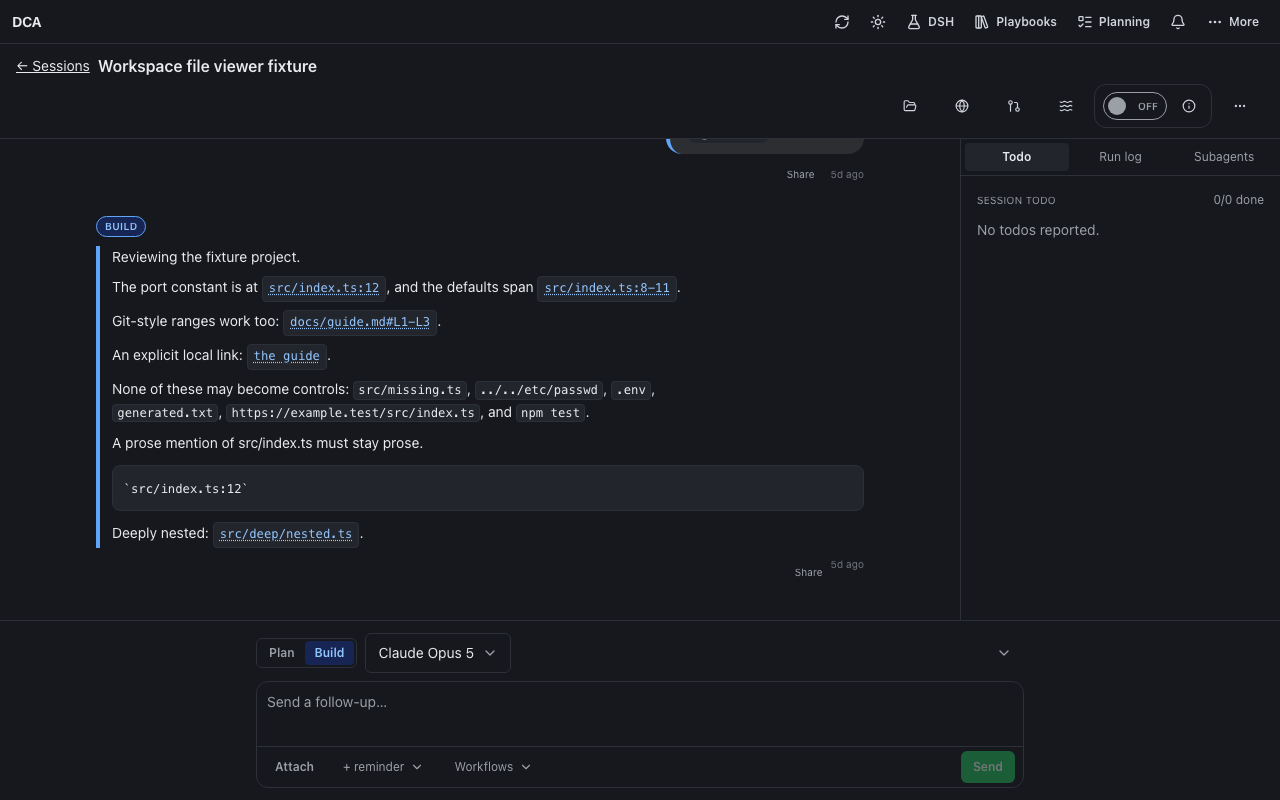
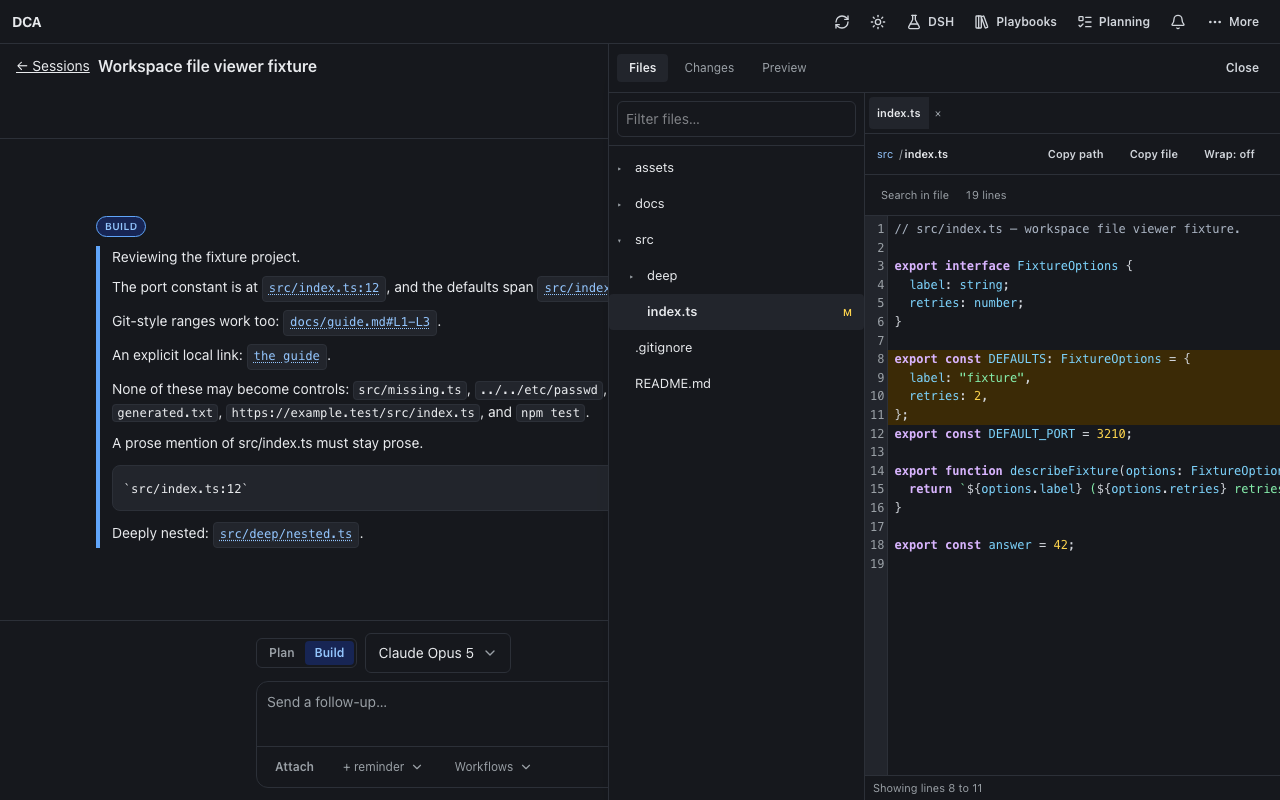
content: complete practical DCA workflow revision
Rewrite the phone, sub-agent, notification, audit, and playbook sections around the approved customization thesis. Replace the notification table with an auditable delivery-flow SVG and add the DeepSeek Harness trajectory inspiration note.

Recapture six privacy-safe UI states from the DCA production bundle through its real BFF and mock OpenCode/forge servers: two mobile views, the notification popover, highlighted sticky review, dark run log, and dark related PR. Remove superseded screenshots and keep generated docs out of the commit.

diff --git a/src/content/blog/practical-dca-workflows.md b/src/content/blog/practical-dca-workflows.md
@@ -1,8 +1,8 @@
 ---
 title: "Early Learnings While Building My Own Desktop Coding Agent (DCA)"
-description: "Early workflow and customization lessons from building my own desktop coding agent: mobile supervision, delegation, interruptions, evidence, Playbooks, and local execution."
+description: "Early customization lessons from building my own desktop coding agent: mobile supervision, sub-agents, deliberate notifications, sticky review, audit trails, and playbooks beside chat."
 publishedAt: "2026-08-30"
-estimateTimeToRead: 11
+estimateTimeToRead: 13
 tags:
   - workflow
   - agents
@@ -24,68 +24,55 @@ The screenshots below are the real interface running against a mock backend, so 
 ## TL;DR
 
 - From a phone, steer and unblock rather than author. Installing the responsive app as a PWA makes that narrow job feel natural.
-- Delegate a bounded side question when I do not need to watch the answer arrive.
-- Interrupt me when a run is blocked, not when it is finished.
-- A cited `file:line` belongs where I am already reading, not in a second application.
+- Customize each sub-agent's model and whether it runs in the foreground, background, or as a manually prompted Managed Child.
+- Create a deliberate notification system that alerts me only when something is blocked or ready for my attention.
+- Make every cited `file:line` open an in-app file viewer with the relevant changes highlighted, without leaving what I am already reading.
 - Keep the run log and related pull request evidence beside the work, so status does not disappear into the transcript.
-- Keep reminders, reusable skills, and guided workflows separate. They solve different context and coordination problems.
+- Keep reminders, workflows, and other playbooks beside the chat input so recurring patterns are faster to find and run.
 
 ## What a phone is actually good for
 
 I can drive a session from my phone over a private tailnet. The honest version of what that buys me is narrower than it sounds. I wrote up the setup separately in the [remote control guide](/guides/opencode-remote-control).
 
-What works: answering a permission prompt, replying to a question that is blocking a run, reading a final summary, and queueing the next instruction. All of these are short. All of them are unblocking rather than authoring.
+What works is returning to a small list of sessions that need attention, opening one, reading enough context to make a short decision, then getting out again. The home screen makes that first step explicit rather than asking me to remember which agent was waiting.
 
-![The same session on a phone-width screen: a banner saying the run did not finish, a bash needs approval prompt with Allow once, Always and Reject buttons, and a blocking question asking which environment to deploy to.](/blog/practical-dca-workflows/phone-unblock.png "Everything a phone is good for is on this screen: approve, answer, resume. Nothing here asks me to write anything.")
+![A phone-width DCA home screen with the main heading, a Needs attention panel containing two sessions waiting on permission or a question, and a Recently active list directly below.](/blog/practical-dca-workflows/mobile-attention-home.png "The mobile home screen puts sessions that need attention above the ordinary recent-session list, so returning to blocked work takes one tap.")
 
-What does not work: anything that needs me to hold a lot on screen at once. I am not going to plan an architecture from a phone. Until recently I would have said the same about reviewing a diff of any size. The [supervising from a phone chapter](/guides/custom-coding-agent-ide-with-openhands/supervising-from-a-phone) puts a large diff firmly in the "better at a desk" column, and that was true when I wrote it.
+Inside a session, the useful actions are similarly narrow: read the latest turn, steer the next one, switch between Plan and Build, change the model, attach a reminder, or start a known workflow. The mobile UI is not pretending that a phone is a spacious workstation. It makes short supervision possible without reducing the conversation and composer to a desktop layout squeezed into 390 pixels.
 
-Installing the site as a PWA is a particularly good fit for this limited job. It launches from the home screen, gets a full-screen app feel, and stays separate from the pile of normal browser tabs. There is no App Store release to install or keep in sync. It is still the same responsive browser app, just presented in a way that makes a quick approval or reply feel like opening a tool rather than finding an old tab.
+![A clean DCA conversation at phone width, showing the end of an agent transcript and a composer with Plan and Build modes, model selection, attachment, reminder, workflow, and send controls.](/blog/practical-dca-workflows/mobile-conversation.png "A clean mobile conversation keeps the transcript and the small set of steering controls in one view, which is enough for short supervision without claiming to replace desk work.")
+
+Installing the site as a PWA is a particularly good fit for this limited job. It launches from the home screen, uses the whole screen, and stays separate from the pile of normal browser tabs. There is no App Store release to install or keep in sync: it is still the same responsive browser app, with the same sessions, delivered in a form that makes checking a blocked run feel like opening a tool instead of recovering an old tab.
 
 What makes the phone worth setting up is that a blocked run is the expensive state. A two-minute reply from a supermarket queue can restart something that would otherwise sit blocked until evening. That is most of the value. It is the difference between supervising a run and babysitting one.
 
-## Scoping a side question worth delegating
+## Customizing how sub-agents run
 
-The [previous post](/blog/the-cost-of-waiting-on-agents) left an open question: how small does a question have to be before delegating it costs more than answering it myself?
+The useful thing about sub-agents in this setup is not simply that there can be more than one. It is that each one can have a different job, agent, model, and relationship to the parent session.
 
-I have a working answer now, and it is not about size. It is about whether I need to watch.
+A quick lookup can run on a faster, cheaper model. A deeper investigation can use a more capable model without moving the whole parent conversation onto it. The choice belongs to the delegated task rather than becoming a global setting I have to keep changing back.
 
-A question is worth delegating when the answer is bounded, mostly read-only, and useful to me whole. "Which components import this hook" is a good delegation. So is "summarize what this migration changed" and "find every place we set this header". Each has an end state I can recognize when it arrives, and none of them need my judgment partway through.
+Foreground and background answer a separate question. A foreground sub-agent blocks the parent when its result is required before the parent can continue. A background sub-agent leaves the parent available while the work continues. The child-sessions panel shows both, and it can move a blocking agent into the background when I realize the parent does not actually need to wait.
 
-A question is not worth delegating when I would have to supervise the middle of it. Anything where the second step depends on my reaction to the first is cheaper to just do. The delegation cost is not the tokens. It is writing a prompt precise enough to survive without me.
+![A session with delegated tasks tagged Background or Foreground and labelled with their agent and model, beside a child-sessions panel showing running, launched, failed, and completed children plus a control for moving blocking sub-agents into the background.](/blog/practical-dca-workflows/subagents-panel.png "Model choice and foreground or background execution are properties of each sub-agent; a blocking child can be moved to the background when the parent should stay available.")
 
-Two details make this work in practice.
+Sub-agent notifications also need their own policy. Ordinary child activity and completion are recorded, but not delivered as notifications; otherwise one parent turn can multiply into a stream of low-value interruptions. A permission request is the exception because a child stalled on permission needs a human just as much as a stalled root session does. If auto-permissions can answer it, that event can still be handled and suppressed silently. This is narrower than the notification policy for root sessions, not a replacement for it.
 
-**Give the digression its own session.** The point is not parallelism. It is that the question leaves my main thread without leaving a residue in it. A side question answered inline is still a topic change in the transcript I have to read past later.
-
-**Use a cheaper model for it.** Bounded lookups do not need the expensive model. Reserve that for work where the reasoning is the product.
-
-![A session with four delegated tasks, each tagged either Background or Foreground with its agent and model, beside a child-sessions panel showing running, launched, failed and completed counts and a prompt to move blocking sub-agents into the background.](/blog/practical-dca-workflows/subagents-panel.png "Foreground sub-agents block the session they were launched from. The panel offers to move them to the background so the parent stays answerable.")
-
-The distinction the interface ended up needing was foreground against background, not parent against child. A foreground sub-agent blocks the session that launched it, which is occasionally what I want and usually not.
-
-Sometimes a bounded lookup is really a persistent worker wearing a disguise. I wrote up that distinction in [the workers versus subagents chapter](/guides/manager-worker-parallel-agents/workers-vs-subagents) of the parallel agents guide.
+I can also launch a **Managed Child** manually. It gets its own promptable conversation, agent, model, and creation-time policy. That is useful when a side investigation or behavior check is likely to need follow-up questions rather than one answer handed back to the parent. The important distinction is not just how the child started; it is whether I want a one-shot result or another conversation I can continue steering independently.
 
 ## Deciding what earns an interruption
 
 The plumbing for this is not interesting and I have already covered it in [my cmux setup](/blog/my-cmux-setup-for-parallel-ai-coding). The policy is the part worth arguing about.
 
-The mistake I made first was treating "notify" as one switch. It is at least two. There is a passive signal, which I will see whenever I next look. And there is an interrupting signal, which takes my attention now whether or not I was ready.
+The mistake I made first was treating "notify" as one switch. What I wanted was a deliberate notification system that alerts me only when something is blocked or ready for my attention, while still keeping a passive record of everything the policy chose not to deliver.
 
-Sorting events by which one they deserve produces a table that has stayed stable for months:
-
-| Event | Passive signal | Interrupts me |
-| --- | --- | --- |
-| Turn complete | Yes | No |
-| Permission requested | Yes | Yes |
-| Plan needs review | Yes | Yes |
-| Question asked | Yes | Yes |
+![A dark flowchart beginning with an OpenCode event, checking whether it is a supported notification kind, suppressing non-permission child-session noise and auto-approved permissions while recording both, checking configured channels, and either recording only or recording and delivering through desktop, ntfy, or web push.](/blog/practical-dca-workflows/notification-decision-flow.svg "Every supported event is recorded. Delivery happens only after sub-agent noise, auto-permissions, and channel preferences have been evaluated.")
 
 The rule underneath it: a finished run can wait, and a blocked one cannot. A completed turn costs nothing by sitting there for ten minutes. A run stalled on a permission prompt is burning the whole reason I delegated it.
 
-![The project hub with a Needs attention banner pinned above the session lists, showing one running session that requires input, while idle sessions sit below it in a recently active list.](/blog/practical-dca-workflows/needs-attention-hub.png "The passive half: a Needs attention list I read when I choose to, rather than a notification that decides for me.")
+The key detail in that flow is that suppressed does not mean forgotten. Supported events are recorded before the delivery decision is applied. The notification popover is therefore an auditable inbox: active permission requests, questions, and ready sessions stay visible, while auto-approved events and ordinary sub-agent noise start folded away. I can unfold either category when I need to understand what happened without letting it train me to ignore the bell.
 
-The passive signal needed somewhere to live, which turned into a "needs attention" list at the top of the hub. It answers the question I actually have when I come back to the desk, which is not "what happened" but "which one of these is waiting on me".
+![A compact dark notification popover with three active rows for a permission, a question, and an idle session, while checked filters report one hidden auto-approved event and one hidden sub-agent event.](/blog/practical-dca-workflows/notification-popover.png "The popover keeps active work visible and suppressed categories auditable. Auto-approved and sub-agent records are folded away by default, not discarded.")
 
 This is also why "notify on everything" fails in a specific way rather than a general one. It is not that the volume is annoying. It is that completions teach me to ignore interruptions. Then I ignore the blocking ones too.
 
@@ -101,7 +88,7 @@ The problem is what it costs to check one. A cited reference used to mean leavin
 
 So the fix is to make following a citation not a departure. A file reference opens in a reader beside the conversation, scrolled to the cited range with those lines highlighted. I read it, I close it, I am still in the same paragraph of the same explanation.
 
-![An agent message where src/index.ts:12, src/index.ts:8-11 and docs/guide.md#L1-L3 are rendered as clickable controls, while a missing path, a traversal path, a dotfile, a generated file, an external URL and a prose mention of the same filename are all left as plain text.](/blog/practical-dca-workflows/file-references.png "Only real, in-workspace paths become controls. A missing file, a traversal attempt, a dotfile, an external URL and a prose mention of the same name all stay inert.")
+![A dark DCA conversation on the left with clickable file citations, beside an in-app workspace file viewer on the right opened to src/index.ts and highlighting the four cited lines from 8 through 11.](/blog/practical-dca-workflows/file-references.png "Clicking src/index.ts:8-11 keeps the transcript in place and opens a read-only sidebar with all four cited lines highlighted.")
 
 Getting this right turned out to be mostly about what *not* to linkify. A path that does not exist, one that escapes the workspace, a dotfile, a generated artifact, a URL that merely looks like a path: every one of those is a control that would waste a click or leak something. The rule I landed on is that a reference becomes a control only when it resolves to a real file inside the project.
 
@@ -121,27 +108,42 @@ A conversation summary is a claim about what happened. Even a good one is compre
 
 That makes it an activity trail rather than another version of the answer. I can filter it to reads, edits, commands, or failures, then jump from an entry back to the exact action in the transcript. When a summary is incomplete, or an old session has already been compacted, I do not have to ask the agent to reconstruct its own history.
 
-![A completed DCA session with the Run log tab open beside the conversation, showing filters for all activity, edits, commands, reads and failures, plus timestamped rows for a file read, a two-file edit, and a failed web request.](/blog/practical-dca-workflows/run-log.png "The run log records the agent's actual activity and links each entry back to the corresponding transcript action.")
+![A completed DCA session in dark mode with the Run log open beside the conversation, showing filters for all activity, edits, commands, reads, and failures plus rows for a file read, a two-file edit, and a failed web request.](/blog/practical-dca-workflows/run-log.png "In dark mode, the run log keeps a filterable record of the agent's actual activity beside the transcript and links each entry back to its action.")
+
+I plan to improve this surface. I am somewhat inspired by the detail in DeepSeek Harness's transcript and trajectory view: turns and steps, request metadata and messages, paired tool calls and results, compaction, child lineage, timing, usage, failures, and what replaced an earlier surface. The current Run log does not match that depth. It is a useful activity trail today, and that trajectory is a good reference for the richer audit detail I would like it to accumulate over time.
 
 The related pull request belongs in the same category. Once a session has opened a PR or MR, its link, state, checks, description, review comments, and approval status should remain visible beside the active work. Otherwise I end up scrolling through the transcript to find the link, prompting the agent to repeat it, or leaving the app just to learn whether review has moved.
 
-![A DCA review drawer beside a completed session, showing an open mock pull request with checks status, expanded review notes, a discussion comment, an approval, and a failed test job.](/blog/practical-dca-workflows/related-pull-request.png "Related pull requests keep review status, checks, and comments beside the session instead of burying them in its transcript.")
+![A completed DCA session dimmed behind a dark Reviews drawer showing an open mock pull request, checks status, expanded description, discussion comment, approval, and test job.](/blog/practical-dca-workflows/related-pull-request.png "The dark Reviews drawer keeps the related pull request's status, checks, description, and comments beside the session instead of burying them in its transcript.")
 
 Neither surface replaces reviewing the code or checking the underlying evidence. They make that evidence and status cheap to retrieve. That is a smaller claim, and a more useful one.
 
-## Playbooks are three different things
+## Reminders and workflows beside the chat
 
-I initially treated every piece of repeatable agent behavior as roughly the same kind of prompt. That is convenient until there are enough of them to manage. Reminders, skills, and workflows have different jobs.
+I initially treated every piece of repeatable agent behavior as roughly the same kind of prompt. The two mechanisms I now reach for here have different jobs.
 
 **Reminders keep operating context visible at the right moment.** A reminder is a small instruction attached to a message or situation where it matters. It might restate a safety boundary or a local convention before a run. It is not a reusable capability, and loading it everywhere would turn a timely nudge into permanent prompt noise.
 
-**Skills and commands package reusable instructions or capabilities.** I invoke them intentionally when a task needs a known procedure. They can have zero or very low at-rest context because the full instructions load only when needed. That makes a skill suitable for something I want to reuse without paying for it, or asking the model to notice it, in every unrelated conversation.
-
 **Workflows guide recurring multi-step actions.** They can collect and validate inputs, show the sequence that will run, and preview what will be sent before anything starts. That is useful for recurring coordination where the shape of the action matters, not just the wording of a prompt snippet. The flow stays inspectable instead of being hidden inside one large instruction.
 
-![The DCA Playbooks catalogue at 1280 by 900 pixels, with a work-in-progress warning, counts for commands, workflows and at-rest tokens, filters for each category, and the first reusable command cards.](/blog/practical-dca-workflows/playbooks-catalog.png "The Playbooks catalogue separates intentionally invoked commands from guided workflows and reports their at-rest context cost. Its UI is still work in progress.")
+Both live beside the chat input, because that is where I notice that a situation needs context or a recurring action needs structure. Hiding them in a separate catalogue would make the reusable behavior harder to find at the moment it is useful.
 
-The screenshot says it plainly: the Playbooks UI is still work in progress. The separation is the part I already trust. These three mechanisms have different lifecycles, scope, and review needs. A reminder changes with the situation, a skill changes with a reusable practice, and a workflow changes with a coordinated process. Combining all of them into one giant prompt makes each harder to find, trust, and change.
+```text
+                               beside the chat input
+
+  situation needs context                         recurring action needs structure
+            |                                                   |
+            v                                                   v
+      +-----------+                                      +--------------+
+      | reminder  |                                      | workflow     |
+      | short rule|                                      | guided steps |
+      +-----------+                                      +--------------+
+            |                                                   |
+            +---------------------> next prompt <---------------+
+                                  visible first
+```
+
+The diagram is deliberately simple: both mechanisms shape the next prompt, and both stay visible before anything is sent. Their scope and lifecycles are still different. A reminder changes with the situation; a workflow changes with the recurring process. Combining them into one giant prompt would make each harder to find, inspect, trust, and change.
 
 ## What ties these together
 
